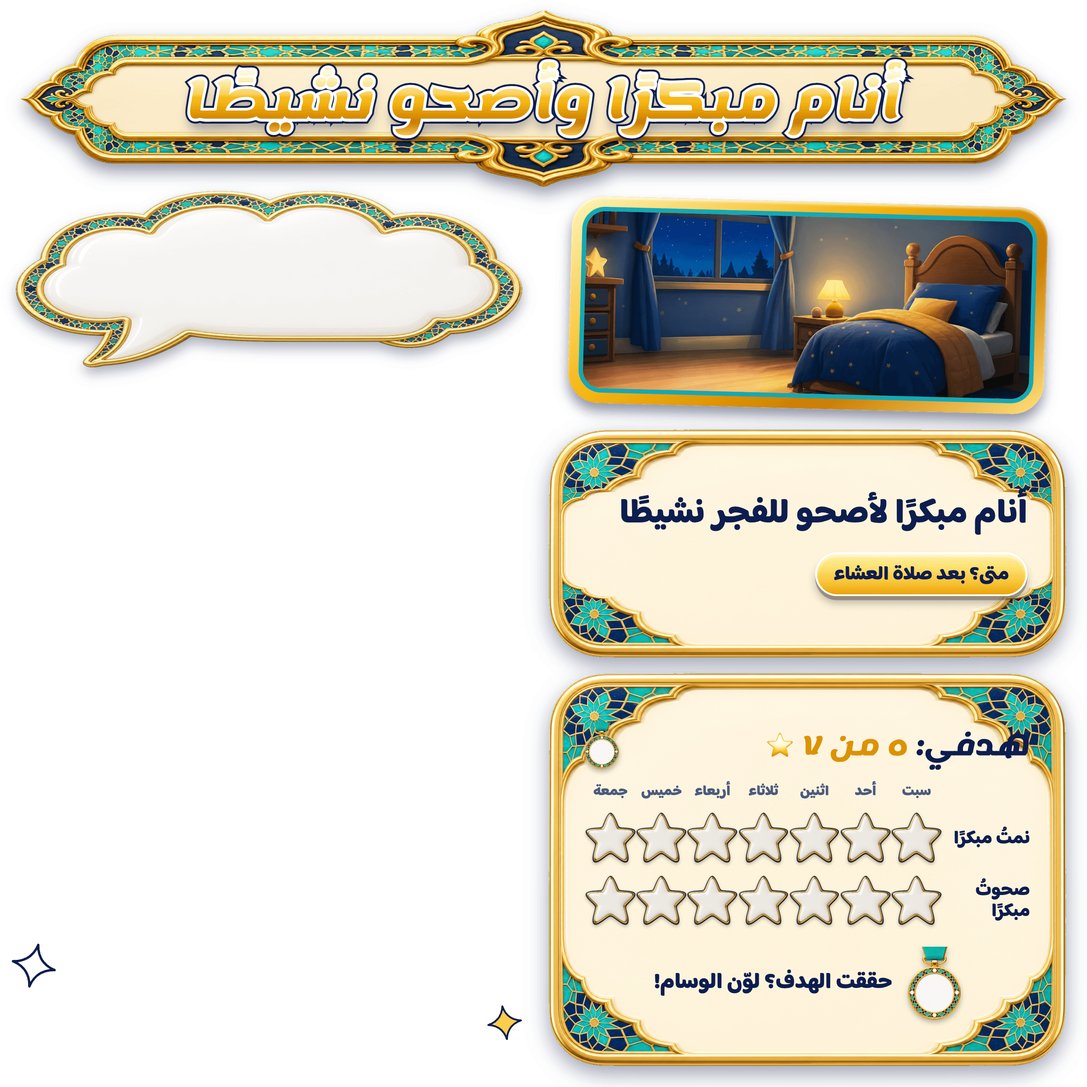
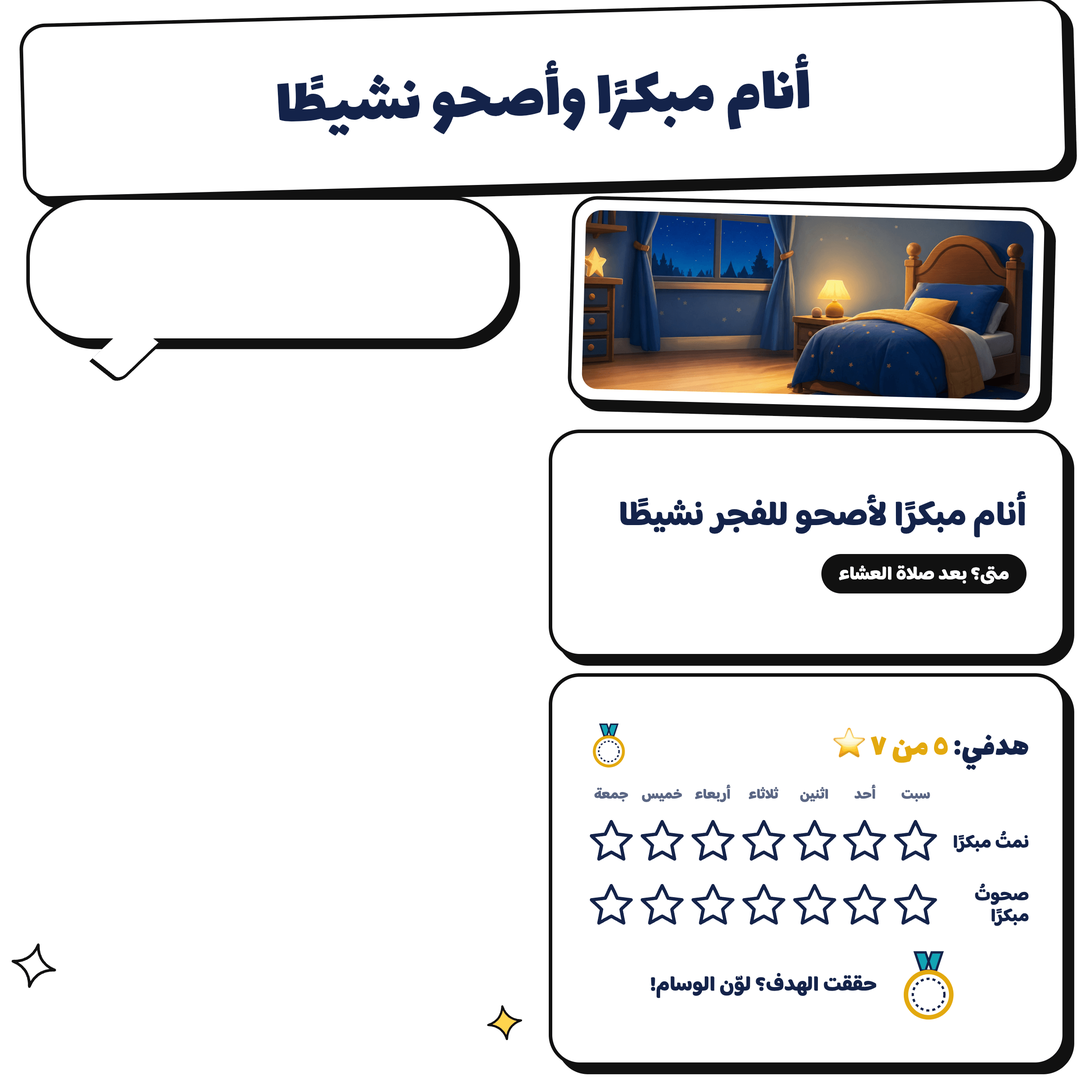
Booklet lettering and frames back to design A (black-outline cards, Lalezar titles, outlined stars)

diff --git a/design/nahjali-v1/pages.html b/design/nahjali-v1/pages.html
@@ -14,71 +14,57 @@
   body { margin: 0; background: transparent; }
   body.all { background: #555; display: flex; flex-wrap: wrap; gap: 8px; padding: 8px; }
   .page { position: relative; width: 210rem; height: 210rem; overflow: hidden; direction: rtl;
-    font-family: 'Baloo Bhaijaan 2', sans-serif; color: #0d1d4f; }
+    font-family: 'Baloo Bhaijaan 2', sans-serif; color: #14234a; }
   .page.preview:not(.colored) { background: #9ad7e0; }
   .abs { position: absolute; }
+  :root { --ink: #111; --navy: #14234a; --gold: #e3a90f; --gold2: #ffe08a; --teal: #12a3b4; }
 
-  /* ── Palette: lapis navy, turquoise, 3-tone gold, warm ivory, coral accent ── */
-  :root { --navy: #0d1d4f; --navy2: #1c3486; --teal: #12a9b8; --gold: #f5b50d; --ivory: #fff8e8; --coral: #ff7a59; }
-
-  /* ── 3D pieces (design/nahjali-v1/assets) stretched with 9-slice borders ── */
-  .plaque { display: flex; align-items: center; justify-content: center; text-align: center; padding-top: 1rem;
-    border-style: solid; border-image: url(assets/plaque.png) 170 330 fill / 11rem 23rem; filter: drop-shadow(0 1.6rem 1.6rem rgba(9, 20, 60, .45)); }
-  .card { border-style: solid; border-image: url(assets/panel.png) 150 fill / 11rem; filter: drop-shadow(0 1.6rem 2rem rgba(9, 20, 60, .4)); }
-  .card > .inner { position: absolute; inset: 7rem 7.5rem; }
-  .plate { display: flex; align-items: center; justify-content: center; border-style: solid;
-    border-image: url(assets/nameplate.png) 170 280 fill / 6.5rem 12rem; filter: drop-shadow(0 1.2rem 1.2rem rgba(0, 0, 0, .35)); }
-  .img { position: absolute; object-fit: contain; filter: drop-shadow(0 1.2rem 1.2rem rgba(9, 20, 60, .35)); }
-
-  /* ── Epic 3D lettering (Lemonada): 3-tone gold face + gloss, white outline, navy extrusion, soft shadow ── */
-  .t3 { position: relative; display: inline-block; isolation: isolate; font-family: 'Lemonada'; font-weight: 700; line-height: 1.3; white-space: nowrap; }
-  .t3::before, .t3::after { content: attr(data-text); position: absolute; inset: 0; }
-  .t3::before { z-index: -2; color: var(--navy); -webkit-text-stroke: .2em var(--navy);
-    text-shadow: 0 .02em 0 #0d1d4f, 0 .04em 0 #0d1d4f, 0 .06em 0 #0c1b49, 0 .08em 0 #0b1842, 0 .1em 0 #0a163b, 0 .2em .25em rgba(9, 20, 60, .45); }
-  .t3::after { z-index: -1; color: #fff; -webkit-text-stroke: .12em #fff; }
-  .t3 .face { position: relative; z-index: 1; color: transparent;
-    background: linear-gradient(180deg, #fff7cf 0%, #ffe066 22%, #f5b50d 52%, #c97c00 72%, #ffd65c 88%, #fff3b0 100%);
-    -webkit-background-clip: text; background-clip: text; }
-  .t3 .gloss { position: absolute; inset: 0; z-index: 2; color: transparent;
-    background: linear-gradient(180deg, rgba(255,255,255,.85) 0%, rgba(255,255,255,.25) 38%, rgba(255,255,255,0) 44%);
-    -webkit-background-clip: text; background-clip: text; }
-  .t3.teal .face { background: linear-gradient(180deg, #d9fbff 0%, #5fe6f0 25%, #13b4c4 55%, #087c8c 78%, #4fdbe6 100%); -webkit-background-clip: text; background-clip: text; }
-  .t3.navy .face { background: linear-gradient(180deg, #4a6fd8 0%, #20409e 45%, #0d1d4f 100%); -webkit-background-clip: text; background-clip: text; }
-  .t3.navy::after { color: #ffd34d; -webkit-text-stroke: .12em #ffd34d; }
+  /* ── Design A: white cards with thick black outlines and hard offset shadows ── */
+  .plaque { display: flex; align-items: center; justify-content: center; text-align: center;
+    background: #fff; border: .8rem solid var(--ink); border-radius: 5rem; box-shadow: 1.6rem 1.6rem 0 var(--ink);
+    transform: rotate(-1.5deg); padding-top: 1.4rem; }
+  .card { background: #fff; border: .8rem solid var(--ink); border-radius: 6rem; box-shadow: 1.6rem 1.6rem 0 var(--ink); }
+  .card > .inner { position: absolute; inset: 4.5rem 5rem; }
+  .plate { display: flex; align-items: center; justify-content: center; background: var(--navy); border: 1rem solid #fff;
+    border-radius: 10rem; box-shadow: 0 1rem 2rem rgba(0, 0, 0, .3); }
+  .ttl { font-family: 'Lalezar'; line-height: 1.2; color: var(--navy); white-space: nowrap; }
+  .ttl.gold { color: var(--gold2); }
+  .bubble { position: absolute; background: #fff; border: .8rem solid var(--ink); border-radius: 12rem; box-shadow: 1.4rem 1.4rem 0 var(--ink); }
+  .bubble::after { content: ''; position: absolute; left: 14rem; bottom: -7.4rem; width: 9rem; height: 9rem; background: #fff;
+    border-right: .8rem solid var(--ink); border-bottom: .8rem solid var(--ink); transform: skewX(-25deg) rotate(30deg); border-bottom-right-radius: 2rem; }
+  .frame-arch { position: absolute; background: #fff; border: .8rem solid var(--ink); border-radius: 45rem 45rem 6rem 6rem; box-shadow: 1.6rem 1.6rem 0 var(--ink); }
+  .ring { position: absolute; background: #fff; border: .8rem solid var(--ink); border-radius: 50%; box-shadow: 1.2rem 1.2rem 0 var(--ink); }
+  .stone { position: absolute; display: grid; place-items: center; background: #fff; border: .6rem solid var(--ink); border-radius: 50%;
+    box-shadow: .8rem .8rem 0 var(--ink); font-family: 'Lalezar'; font-size: 4.6rem; color: #888; padding-top: .8rem; }
 
   .line { font-size: 6.6rem; font-weight: 800; line-height: 1.45; color: var(--navy); }
-  .quote { font-family: 'Amiri', serif; font-size: 4.5rem; line-height: 1.75; color: #0a4f5a; text-align: center; font-weight: 700; }
+  .quote { font-family: 'Amiri', serif; font-size: 4.5rem; line-height: 1.75; color: #0e5a66; text-align: center; font-weight: 700; }
   .quote.small { font-size: 3.45rem; line-height: 1.7; text-align: justify; font-weight: 400; color: #173058; }
-  .quote .mark { color: #d99a0b; font-size: 1.2em; }
-
-  /* 3D chips: turquoise for "even a little", gold for "when?" */
+  .quote .mark { color: var(--gold); font-size: 1.2em; }
   .chips { display: flex; flex-wrap: wrap; gap: 2rem; }
-  .chip { font-size: 3.7rem; font-weight: 800; border-radius: 10rem; padding: .9rem 3.2rem .5rem; white-space: nowrap;
-    box-shadow: inset 0 .6rem .4rem rgba(255, 255, 255, .45), 0 .8rem 0 rgba(0, 0, 0, .25), 0 1.4rem 1.6rem rgba(0, 0, 0, .25); }
-  .chip.teal { color: #fff; background: linear-gradient(180deg, #5fdde6, #12a3b4 55%, #0b7c8c); border: .5rem solid #f2c14e; text-shadow: 0 .3rem 0 #0b4f63; }
-  .chip.gold { color: var(--navy); background: linear-gradient(180deg, #fff1a8, #ffd34d 55%, #e9a50c); border: .5rem solid #fff; }
+  .chip { font-size: 3.6rem; font-weight: 800; border-radius: 10rem; padding: .6rem 3rem .3rem; white-space: nowrap; border: .5rem solid var(--ink); }
+  .chip.teal { background: var(--teal); color: #fff; }
+  .chip.gold { background: #111; color: #fff; }
 
-  /* Tracker: weekly goal (5 of 7) — missing a day is fine */
-  .t-head { display: flex; align-items: center; justify-content: space-between; margin-bottom: 1.6rem; }
-  .goal { font-family: 'Lemonada'; font-weight: 700; font-size: 5rem; color: var(--navy); }
-  .goal b { color: #e08e00; }
-  .tracker { display: grid; align-items: center; justify-items: center; row-gap: 1.8rem; }
-  .tracker .day { font-size: 2.7rem; font-weight: 800; color: #4a5a80; }
+  .t-head { display: flex; align-items: center; justify-content: space-between; margin-bottom: 1.8rem; }
+  .goal { font-family: 'Lalezar'; font-size: 6.2rem; color: var(--navy); padding-top: 1rem; }
+  .goal b { color: var(--gold); font-weight: 400; }
+  .tracker { display: grid; align-items: center; justify-items: center; row-gap: 2rem; }
+  .tracker .day { font-size: 2.7rem; font-weight: 800; color: #5b6785; }
   .tracker .lbl { font-size: 3.5rem; font-weight: 800; justify-self: start; line-height: 1.15; }
-  .medal-row { display: flex; align-items: center; justify-content: center; gap: 3rem; margin-top: 3.5rem; font-size: 4.2rem; font-weight: 800; }
+  .medal-row { display: flex; align-items: center; justify-content: center; gap: 3rem; margin-top: 3rem; font-size: 4rem; font-weight: 800; }
   table.grid { border-collapse: separate; border-spacing: 0 1rem; width: 100%; }
-  table.grid th { font-size: 2.9rem; font-weight: 800; color: #4a5a80; }
+  table.grid th { font-size: 2.9rem; font-weight: 800; color: #5b6785; }
   table.grid td { text-align: center; }
   table.grid td.lbl { text-align: start; font-size: 3.5rem; font-weight: 800; white-space: nowrap; }
-  .write-line { border-bottom: .5rem dotted #c79a3a; height: 9rem; }
-  .cut { position: absolute; border: .5rem dashed #8a6a2a; border-radius: 50%; }
+  .write-line { border-bottom: .5rem dashed #111; height: 9rem; }
+  .cut { position: absolute; border: .5rem dashed #111; border-radius: 50%; }
 
   /* ── Colourful page backgrounds (design A) with a soft dot pattern ── */
   .page.colored { background-color: var(--bg); background-image: radial-gradient(var(--dot) .55rem, transparent .65rem); background-size: 7rem 7rem; }
-  /* Small framed picture (shrine, rooms…): gold frame, turquoise inner line, slight tilt */
-  .pic { position: absolute; border-radius: 6rem; padding: 2rem; background: linear-gradient(145deg, #fff3b8, #f5b50d 40%, #c97c00 70%, #ffe27a);
-    box-shadow: 0 1.6rem 2.4rem rgba(9, 20, 60, .45), inset 0 .5rem .4rem rgba(255, 255, 255, .6); }
-  .pic > img { width: 100%; height: 100%; object-fit: cover; border-radius: 4.4rem; border: .9rem solid #12a9b8; display: block; }
+  /* Small framed picture: white border, black outline, hard shadow, slight tilt */
+  .pic { position: absolute; background: #fff; padding: 2rem; border: .8rem solid var(--ink); border-radius: 5rem; box-shadow: 1.6rem 1.6rem 0 var(--ink); }
+  .pic > img { width: 100%; height: 100%; object-fit: cover; border-radius: 3rem; display: block; }
   .sparkle { position: absolute; }
 
   .slot-guide { border: .6rem dashed #e11; background: rgba(255,0,0,.06); display: grid; place-items: center; color: #e11; font-size: 4.5rem; font-weight: 800; text-align: center; }
@@ -94,18 +80,17 @@ const AR = (n) => String(n).replace(/\d/g, (d) => '٠١٢٣٤٥٦٧٨٩'[d]);
 
 const box = (x, y, w, h, cls, html, extra = '') =>
   `<div class="abs ${cls}" style="left:${x}rem;top:${y}rem;width:${w}rem;height:${h}rem;${extra}">${html}</div>`;
-const img = (name, x, y, w, h, extra = '') => `<img class="img" src="assets/${name}.png" style="left:${x}rem;top:${y}rem;width:${w}rem;height:${h}rem;${extra}">`;
-const star = (s) => `<img src="assets/star.png" style="width:${s}rem;height:${s}rem;object-fit:contain;filter:drop-shadow(0 .4rem .3rem rgba(0,0,0,.25))">`;
-const medal = (s) => `<img src="assets/medal.png" style="height:${s}rem;filter:drop-shadow(0 .6rem .5rem rgba(0,0,0,.3))">`;
-/** Epic 3D lettering (see .t3) */
-const t3 = (text, cls = '') => `<span class="t3 ${cls}" data-text="${text}"><span class="face">${text}</span><span class="gloss" aria-hidden="true">${text}</span></span>`;
-const plaque = (x, y, w, h, text, size, cls = '') => box(x, y, w, h, 'plaque', t3(text, cls), `font-size:${size}rem`);
-
+const img = (name, x, y, w, h, extra = '') => ''; // 3D image pieces are not used in design A
+const star = (s) => `<svg width="${s}rem" height="${s}rem" viewBox="0 0 24 24"><path d="m12 2.2 2.9 6.1 6.7.8-4.9 4.6 1.3 6.6L12 17l-6 3.3 1.3-6.6-4.9-4.6 6.7-.8z" fill="#fff" stroke="#14234a" stroke-width="1.6" stroke-linejoin="round"/></svg>`;
+const medal = (s) => `<svg width="${s}rem" height="${s}rem" viewBox="0 0 48 48"><path d="M15 2h7l4 12h-7zM33 2h-7l-4 12h7z" fill="#12a3b4" stroke="#14234a" stroke-width="1.5"/><circle cx="24" cy="30" r="15" fill="#fff" stroke="#e3a90f" stroke-width="3"/><circle cx="24" cy="30" r="10.5" fill="none" stroke="#14234a" stroke-width="1.5" stroke-dasharray="2 2"/></svg>`;
+/** Title text (design A: Lalezar, no 3D effect) */
+const t3 = (text, cls = '') => `<span class="ttl ${cls}">${text}</span>`;
+const plaque = (x, y, w, h, text, size) => box(x, y, w, h, 'plaque', t3(text), `font-size:${size}rem`);
 /** Framed picture of a scene (scenes are small framed pictures, not full backgrounds). */
 const pic = (scene, x, y, w, h, rot = 0) =>
   `<div class="pic" style="left:${x}rem;top:${y}rem;width:${w}rem;height:${h}rem;transform:rotate(${rot}deg)"><img src="../../templates/nahjali-v1/scenes/${scene}.jpg"></div>`;
 const sparkle = (x, y, s, fill, rot = 0) =>
-  `<svg class="sparkle" style="left:${x}rem;top:${y}rem;width:${s}rem;height:${s}rem;transform:rotate(${rot}deg)" viewBox="0 0 24 24"><path d="M12 1c1 6 5 10 11 11-6 1-10 5-11 11-1-6-5-10-11-11C7 11 11 7 12 1z" fill="${fill}" stroke="#0d1d4f" stroke-width="1.2" stroke-linejoin="round"/></svg>`;
+  `<svg class="sparkle" style="left:${x}rem;top:${y}rem;width:${s}rem;height:${s}rem;transform:rotate(${rot}deg)" viewBox="0 0 24 24"><path d="M12 1c1 6 5 10 11 11-6 1-10 5-11 11-1-6-5-10-11-11C7 11 11 7 12 1z" fill="${fill}" stroke="#111" stroke-width="1.4" stroke-linejoin="round"/></svg>`;
 
 /** Weekly tracker with a 5-of-7 goal (research: weekly goals beat unbroken streaks). */
 function tracker(rows, starSize = rows.length === 1 ? 11 : rows.length === 2 ? 9.6 : 8) {
@@ -128,11 +113,11 @@ function habitPage(o) {
     bg: o.bg,
     dot: o.dot,
     slots: [{ pose: o.pose, x: 0, y: 66, w: 104, h: 142 }],
-    texts: [{ value: o.bubble, font: 'hand', color: '#0d1d4f', x: 15, y: 42, w: 76, h: 18, wrap: true }],
+    texts: [{ value: o.bubble, font: 'display', color: '#14234a', x: 13, y: 42, w: 78, h: 20, wrap: true }],
     html: `
       ${sparkle(2, 182, 9, '#fff', 12)}${sparkle(94, 194, 7, '#ffd34d', -8)}
-      ${plaque(4, 2, 202, 34, o.title, o.titleSize ?? 13)}
-      ${img('bubble', 3, 37, 98, 34, 'object-fit:fill')}
+      ${plaque(4, 2, 202, 34, o.title, o.titleSize ?? 18)}
+      <div class="bubble" style="left:5rem;top:38rem;width:94rem;height:28rem"></div>
       ${picH ? pic(o.scene, 110, 39, 92, picH, 1.5) : ''}
       ${box(106, cardY, 100, cardH, 'card', `<div class="inner" style="inset:6.5rem 7rem;display:flex;flex-direction:column;gap:2.2rem;justify-content:center">
           <div class="line">${o.line}</div>
@@ -193,10 +178,10 @@ function journeyMap() {
     const n = i + 1;
     if (n % 7 === 0) {
       const s = n === 28 ? 24 : 16;
-      return img('medal', x - s / 2, y - s * 0.75, s, s * 1.2);
+      return `<div class="abs" style="left:${x - s / 2}rem;top:${y - s * 0.6}rem">${medal(s)}</div>`;
     }
     const s = 11.5;
-    return `${img('stone', x - s / 2, y - s / 2, s, s)}<div class="abs" style="left:${x - s / 2}rem;top:${y - s / 2 + 0.7}rem;width:${s}rem;height:${s}rem;display:grid;place-items:center;font-family:Lemonada;font-weight:700;font-size:4rem;color:#b47a00">${AR(n)}</div>`;
+    return `<div class="stone" style="left:${x - s / 2}rem;top:${y - s / 2}rem;width:${s}rem;height:${s}rem">${AR(n)}</div>`;
   }).join('');
   return road + stones;
 }
@@ -214,11 +199,11 @@ const PAGES = [
   {
     ...colors('purple'),
     slots: [{ pose: 'happy', x: 56, y: 104, w: 98, h: 104 }],
-    texts: [{ value: 'كتيب {name}', font: 'title', color: '#0d1d4f', effect: 'epic', x: 8, y: 50, w: 194, h: 32 }],
+    texts: [{ value: 'كتيب {name}', font: 'display', color: '#ffffff', effect: 'sticker', x: 8, y: 50, w: 194, h: 32 }],
     html: `
       ${sparkle(6, 10, 14, '#fff', 10)}${sparkle(184, 14, 12, '#FF4D8D', -8)}${sparkle(190, 186, 10, '#fff')}${sparkle(8, 192, 9, '#C6F432')}
       ${pic('shrine-day', 4, 112, 52, 52, -7)}${pic('shrine-night', 154, 116, 52, 52, 7)}
-      <img class="img" src="../../public/brand/logo.png" style="left:84rem;top:3rem;width:42rem">
+      <img class="abs" src="../../public/brand/logo.png" style="left:84rem;top:3rem;width:42rem">
       ${box(38, 82, 134, 16, 'plate', t3('رحلتي مع العادات الطيبة', 'gold'), 'font-size:6.6rem;padding-top:1rem')}
     `,
   },
@@ -227,19 +212,19 @@ const PAGES = [
     ...colors('orange'),
     slots: [{ pose: 'happy', x: 14, y: 62, w: 76, h: 108, front: true }],
     texts: [
-      { value: '{name}', font: 'title', color: '#ffd34d', effect: 'gold', x: 20, y: 181, w: 66, h: 11 },
-      { value: '{message}', font: 'hand', color: '#0d1d4f', x: 112, y: 140, w: 84, h: 54, wrap: true },
+      { value: '{name}', font: 'display', color: '#ffe08a', x: 20, y: 181, w: 66, h: 11 },
+      { value: '{message}', font: 'body', color: '#14234a', x: 112, y: 140, w: 84, h: 54, wrap: true },
     ],
     html: `
       ${sparkle(96, 40, 8, '#fff', 15)}${sparkle(2, 196, 9, '#FFD23F')}
-      ${plaque(4, 2, 202, 34, 'هذا أنا', 15)}
-      ${img('arch', 6, 38, 90, 138, 'object-fit:fill')}
+      ${plaque(4, 2, 202, 34, 'هذا أنا', 19)}
+      <div class="frame-arch" style="left:8rem;top:40rem;width:86rem;height:134rem"></div>
       ${box(8, 178, 86, 17, 'plate', '')}
       ${box(100, 38, 106, 86, 'card', `<div class="inner" style="display:flex;flex-direction:column;gap:3.5rem;justify-content:center">
           ${['عمري:', 'عادتي المفضلة:', 'أحب أن أكون:'].map((l) => `<div style="display:flex;align-items:flex-end;gap:2.5rem"><span class="line" style="white-space:nowrap">${l}</span><span class="write-line" style="flex:1"></span></div>`).join('')}
         </div>`)}
       ${box(100, 127, 106, 79, 'card', `<div class="inner" style="inset:6.5rem 7rem">
-          <div style="font-family:Lemonada;font-weight:700;font-size:5.4rem;color:#c0392b;text-align:center">رسالة من ماما وبابا 💛</div>
+          <div style="font-family:Lalezar;font-size:6.4rem;color:#c0392b;text-align:center">رسالة من ماما وبابا 💛</div>
           ${[0, 1, 2, 3].map(() => `<div class="write-line" style="height:11.5rem;opacity:.55"></div>`).join('')}
         </div>`)}
     `,
@@ -251,7 +236,7 @@ const PAGES = [
     texts: [],
     html: `
       ${journeyMap()}
-      ${plaque(3, 3, 104, 28, 'رحلتي ٢٨ يوم', 9.5)}
+      ${plaque(3, 3, 104, 28, 'رحلتي ٢٨ يوم', 12.5)}
       ${box(6, 32, 98, 12, 'plate', `<span style="font-size:3.6rem;font-weight:800;color:#ffe08a">كل يوم أنجزت فيه عاداتي ألوّن خطوة</span>`)}
     `,
   },
@@ -263,7 +248,7 @@ const PAGES = [
   }),
   // 5 — Quran
   habitPage({
-    ...colors('yellow'), scene: 'quran-nook', pose: 'quran', title: 'أقرأ القرآن كل يوم', titleSize: 11.5, bubble: 'يا {name}، يلا نقرأ آية!',
+    ...colors('yellow'), scene: 'quran-nook', pose: 'quran', title: 'أقرأ القرآن كل يوم', titleSize: 15, bubble: 'يا {name}، يلا نقرأ آية!',
     line: 'كلام الله نورٌ لقلبي', chips: [['teal', 'ولو آيةً واحدة'], ['gold', 'متى؟ بعد صلاة الفجر']], picH: 46, cardH: 44,
   }),
   // 6 — morning
@@ -273,12 +258,12 @@ const PAGES = [
   }),
   // 7 — sleep early
   habitPage({
-    ...colors('navy'), scene: 'bedroom-night', pose: 'sleeping', title: 'أنام مبكرًا وأصحو نشيطًا', titleSize: 9.5, bubble: 'نومًا هنيئًا يا {name}!',
+    ...colors('navy'), scene: 'bedroom-night', pose: 'sleeping', title: 'أنام مبكرًا وأصحو نشيطًا', titleSize: 13, bubble: 'نومًا هنيئًا يا {name}!',
     line: 'أنام مبكرًا لأصحو للفجر نشيطًا', chips: [['gold', 'متى؟ بعد صلاة العشاء']], picH: 40, cardH: 44, rows: ['نمتُ مبكرًا', 'صحوتُ مبكرًا'],
   }),
   // 8 — greeting Imam al-Mahdi (long hadith: no picture, more room for the text)
   habitPage({
-    ...colors('purple'), scene: 'shrine-dawn', pose: 'salam', title: 'السلامُ عليكَ يا صاحبَ الزمان', titleSize: 8.4, bubble: 'يا {name}، لنُسلّم على إمامنا',
+    ...colors('purple'), scene: 'shrine-dawn', pose: 'salam', title: 'السلامُ عليكَ يا صاحبَ الزمان', titleSize: 11.5, bubble: 'يا {name}، لنُسلّم على إمامنا',
     line: 'أُسلّم على إمام زماني كل يوم، وأدعو بتعجيل فرجه', chips: [['gold', 'متى؟ كل صباح']],
     quote: HADITH_MAHDI, quoteSmall: true, picH: 0, cardH: 112,
   }),
@@ -299,7 +284,7 @@ const PAGES = [
     slots: [{ pose: 'happy', x: 6, y: 0, w: 38, h: 44 }],
     texts: [],
     html: `
-      ${plaque(46, 2, 160, 34, 'مهامي اليومية', 13)}
+      ${plaque(46, 2, 160, 34, 'مهامي اليومية', 17)}
       ${box(4, 40, 202, 166, 'card', `<div class="inner" style="inset:6rem 7rem">
         <div style="text-align:center;margin-bottom:.5rem"><span class="goal">هدفي: <b>٥ من ٧</b> لكل عادة ⭐</span></div>
         <table class="grid"><thead><tr><th></th>${DAYS.map((d) => `<th>${d}</th>`).join('')}</tr></thead>
@@ -315,7 +300,7 @@ const PAGES = [
     html: `
       ${sparkle(10, 50, 10, '#fff', 12)}${sparkle(50, 70, 7, '#FFD23F')}
       ${pic('shrine-dawn', 8, 42, 62, 46, -4)}
-      ${plaque(4, 2, 202, 34, 'مهامي الأسبوعية', 13)}
+      ${plaque(4, 2, 202, 34, 'مهامي الأسبوعية', 17)}
       ${box(76, 40, 130, 166, 'card', `<div class="inner" style="inset:7rem 7rem">
         <table class="grid"><thead><tr><th></th>${['الأسبوع ١', 'الأسبوع ٢', 'الأسبوع ٣', 'الأسبوع ٤'].map((d) => `<th>${d}</th>`).join('')}</tr></thead>
         <tbody>${WEEKLY.map((h) => `<tr style="height:19rem"><td class="lbl" style="white-space:normal;max-width:38rem;line-height:1.25">${h}</td>${[1, 2, 3, 4].map(() => `<td>${star(9)}</td>`).join('')}</tr>`).join('')}
@@ -334,9 +319,9 @@ const PAGES = [
       slots: rings.map((r, i) => ({ pose: poses[i], x: r.x + 14, y: r.y + 8, w: 26, h: 38, front: true })),
       texts: [],
       html: `
-        ${plaque(4, 2, 202, 34, 'ملصقاتي', 15)}
-        ${rings.map((r) => `<div class="cut" style="left:${r.x - 3}rem;top:${r.y - 3}rem;width:60rem;height:60rem;border-color:#0d1d4f"></div>${img('ring', r.x, r.y, 54, 54)}`).join('')}
-        ${small.map((s) => `<div class="cut" style="left:${s.x - 2}rem;top:${s.y - 2}rem;width:22rem;height:22rem;border-color:#0d1d4f"></div>${img(s.kind, s.x + 1, s.y + 1, 16, 16)}`).join('')}
+        ${plaque(4, 2, 202, 34, 'ملصقاتي', 19)}
+        ${rings.map((r) => `<div class="cut" style="left:${r.x - 3}rem;top:${r.y - 3}rem;width:60rem;height:60rem;border-color:#0d1d4f"></div><div class="ring" style="left:${r.x}rem;top:${r.y}rem;width:54rem;height:54rem"></div>`).join('')}
+        ${small.map((s) => `<div class="cut" style="left:${s.x - 2}rem;top:${s.y - 2}rem;width:22rem;height:22rem;border-color:#0d1d4f"></div><div class="abs" style="left:${s.x + 1}rem;top:${s.y + 1}rem">${s.kind === 'medal' ? medal(16) : star(16)}</div>`).join('')}
         ${box(28, 197, 154, 11, 'plate', `<span style="font-size:3.6rem;font-weight:800;color:#ffe08a">قصّ الملصق والصقه على خريطة رحلتي ✂</span>`)}
       `,
     };
@@ -348,7 +333,7 @@ const PAGES = [
     texts: [],
     html: `
       ${sparkle(4, 38, 9, '#fff', 10)}${sparkle(196, 196, 9, '#FFD23F')}
-      ${plaque(4, 2, 202, 34, 'ركن الأهل', 15)}
+      ${plaque(4, 2, 202, 34, 'ركن الأهل', 19)}
       ${box(8, 40, 194, 164, 'card', `<div class="inner" style="inset:9rem 10rem;display:flex;flex-direction:column;justify-content:space-around">
         ${TIPS.map((t) => `<div style="display:flex;align-items:center;gap:4rem">${star(10)}<span class="line" style="font-size:6.2rem">${t}</span></div>`).join('')}
       </div>`)}
@@ -358,11 +343,11 @@ const PAGES = [
   {
     ...colors('lime'),
     slots: [{ pose: 'happy', x: 8, y: 84, w: 82, h: 120 }],
-    texts: [{ value: '{name}', font: 'title', color: '#0d1d4f', effect: 'epic', x: 100, y: 66, w: 96, h: 24 }],
+    texts: [{ value: '{name}', font: 'display', color: '#14234a', x: 100, y: 66, w: 96, h: 24 }],
     html: `
       <div class="abs" style="inset:4rem;border:2.6rem solid #e9a50c;border-radius:8rem;box-shadow:inset 0 0 0 1.2rem #fff,0 0 0 1.2rem #fff,inset 0 0 0 2.2rem #12a9b8"></div>
       ${sparkle(10, 52, 10, '#fff', 10)}${sparkle(70, 60, 8, '#FF4D8D')}
-      ${plaque(20, 9, 170, 36, 'شهادة تقدير', 16)}
+      ${plaque(20, 9, 170, 36, 'شهادة تقدير', 19)}
       ${box(92, 46, 112, 154, 'card', `<div class="inner" style="display:flex;flex-direction:column;align-items:center;gap:3rem;text-align:center">
           <div class="line" style="font-size:6.2rem">تُمنح هذه الشهادة إلى</div>
           <div style="height:26rem;width:100%;border-bottom:.6rem dashed #c79a3a"></div>
@@ -383,8 +368,8 @@ const PAGES = [
     html: `
       ${sparkle(10, 12, 12, '#FFD23F', 10)}${sparkle(186, 20, 10, '#fff')}${sparkle(20, 186, 9, '#fff')}${sparkle(182, 180, 12, '#FFD23F', -10)}
       ${pic('shrine-night', 30, 16, 150, 100, -2)}
-      <img class="img" src="../../public/brand/logo.png" style="left:84rem;top:112rem;width:42rem">
-      ${plaque(30, 160, 150, 26, 'كتيب العادات الطيبة', 8.5)}
+      <img class="abs" src="../../public/brand/logo.png" style="left:84rem;top:112rem;width:42rem">
+      ${plaque(30, 160, 150, 26, 'كتيب العادات الطيبة', 11)}
       <div class="abs" style="left:20rem;top:190rem;width:170rem;text-align:center;font-size:4.4rem;font-weight:800;color:#fff">صُنع بحبّ لأطفالنا · على نهج أمير المؤمنين عليه السلام</div>
     `,
   },

diff --git a/src/lib/compose.ts b/src/lib/compose.ts
@@ -158,12 +158,14 @@ async function shapeLine(font: HbFont, text: string) {
  * Sizes are fractions of the font size (em), like the CSS titles in the booklet design.
  */
 const EFFECTS = {
+  /** Design A sticker lettering: white face, thick black outline, hard diagonal shadow */
+  sticker: { stops: ["#ffffff", "#ffffff"], depth: "#111111", outer: "#111111", outerEm: 0.07, rim: null, rimEm: 0, depthEm: 0.1, diagonal: true },
   /** Epic 3D title (matches .t3): 3-tone gold face, white rim, navy outline and extrusion */
-  epic: { stops: ["#fff7cf", "#ffe066", "#f5b50d", "#c97c00", "#ffd65c"], depth: "#0d1d4f", outer: "#0d1d4f", outerEm: 0.1, rim: "#ffffff", rimEm: 0.06, depthEm: 0.1 },
+  epic: { stops: ["#fff7cf", "#ffe066", "#f5b50d", "#c97c00", "#ffd65c"], depth: "#0d1d4f", outer: "#0d1d4f", outerEm: 0.1, rim: "#ffffff", rimEm: 0.06, depthEm: 0.1, diagonal: false },
   /** Navy face, gold rim, white edge, bronze depth */
-  "3d": { stops: ["#2c4a8c", "#18306a", "#0b1d45"], depth: "#6a3f00", outer: "#ffffff", outerEm: 0.15, rim: "#f6c64a", rimEm: 0.08, depthEm: 0.11 },
+  "3d": { stops: ["#2c4a8c", "#18306a", "#0b1d45"], depth: "#6a3f00", outer: "#ffffff", outerEm: 0.15, rim: "#f6c64a", rimEm: 0.08, depthEm: 0.11, diagonal: false },
   /** Gold lettering for dark plates (name tags) */
-  gold: { stops: ["#fff3b8", "#ffd34d", "#e0a10e", "#b87a06"], depth: null, outer: null, outerEm: 0, rim: null, rimEm: 0, depthEm: 0 },
+  gold: { stops: ["#fff3b8", "#ffd34d", "#e0a10e", "#b87a06"], depth: null, outer: null, outerEm: 0, rim: null, rimEm: 0, depthEm: 0, diagonal: false },
 } as const;
 
 function layers(t: TemplateText, upem: number, ascender: number, descender: number) {
@@ -181,7 +183,7 @@ function layers(t: TemplateText, upem: number, ascender: number, descender: numb
   const stops = fx.stops.map((c, i) => `<stop offset="${i / (fx.stops.length - 1)}" stop-color="${c}"/>`).join("");
   let svg = `<defs><linearGradient id="f" gradientUnits="userSpaceOnUse" x1="0" y1="${ascender * 0.8}" x2="0" y2="${descender * 0.3}">${stops}</linearGradient></defs>`;
   if (fx.depth) {
-    for (let k = depth; k > 0; k -= depth / 5) svg += layer(`transform="translate(0 ${-k})" fill="${fx.depth}" stroke="${fx.depth}" stroke-width="${outer * 2}"`);
+    for (let k = depth; k > 0; k -= depth / 5) svg += layer(`transform="translate(${fx.diagonal ? k : 0} ${-k})" fill="${fx.depth}" stroke="${fx.depth}" stroke-width="${outer * 2}"`);
   }
   if (fx.outer) svg += layer(`fill="${fx.outer}" stroke="${fx.outer}" stroke-width="${outer * 2}"`);
   if (fx.rim) svg += layer(`fill="${fx.rim}" stroke="${fx.rim}" stroke-width="${fx.rimEm * upem * 2}"`);

diff --git a/src/lib/templates.ts b/src/lib/templates.ts
@@ -18,7 +18,7 @@ export interface TemplateText {
   color: string;
   stroke: string | null;
   /** Optional lettering effect: "epic" (3D gold titles), "3d" (navy) or "gold" */
-  effect?: "epic" | "3d" | "gold" | null;
+  effect?: "epic" | "3d" | "gold" | "sticker" | null;
   /** Wrap onto several centered lines that fill the box (speech bubbles, messages) */
   wrap?: boolean;
   x_mm: number;
